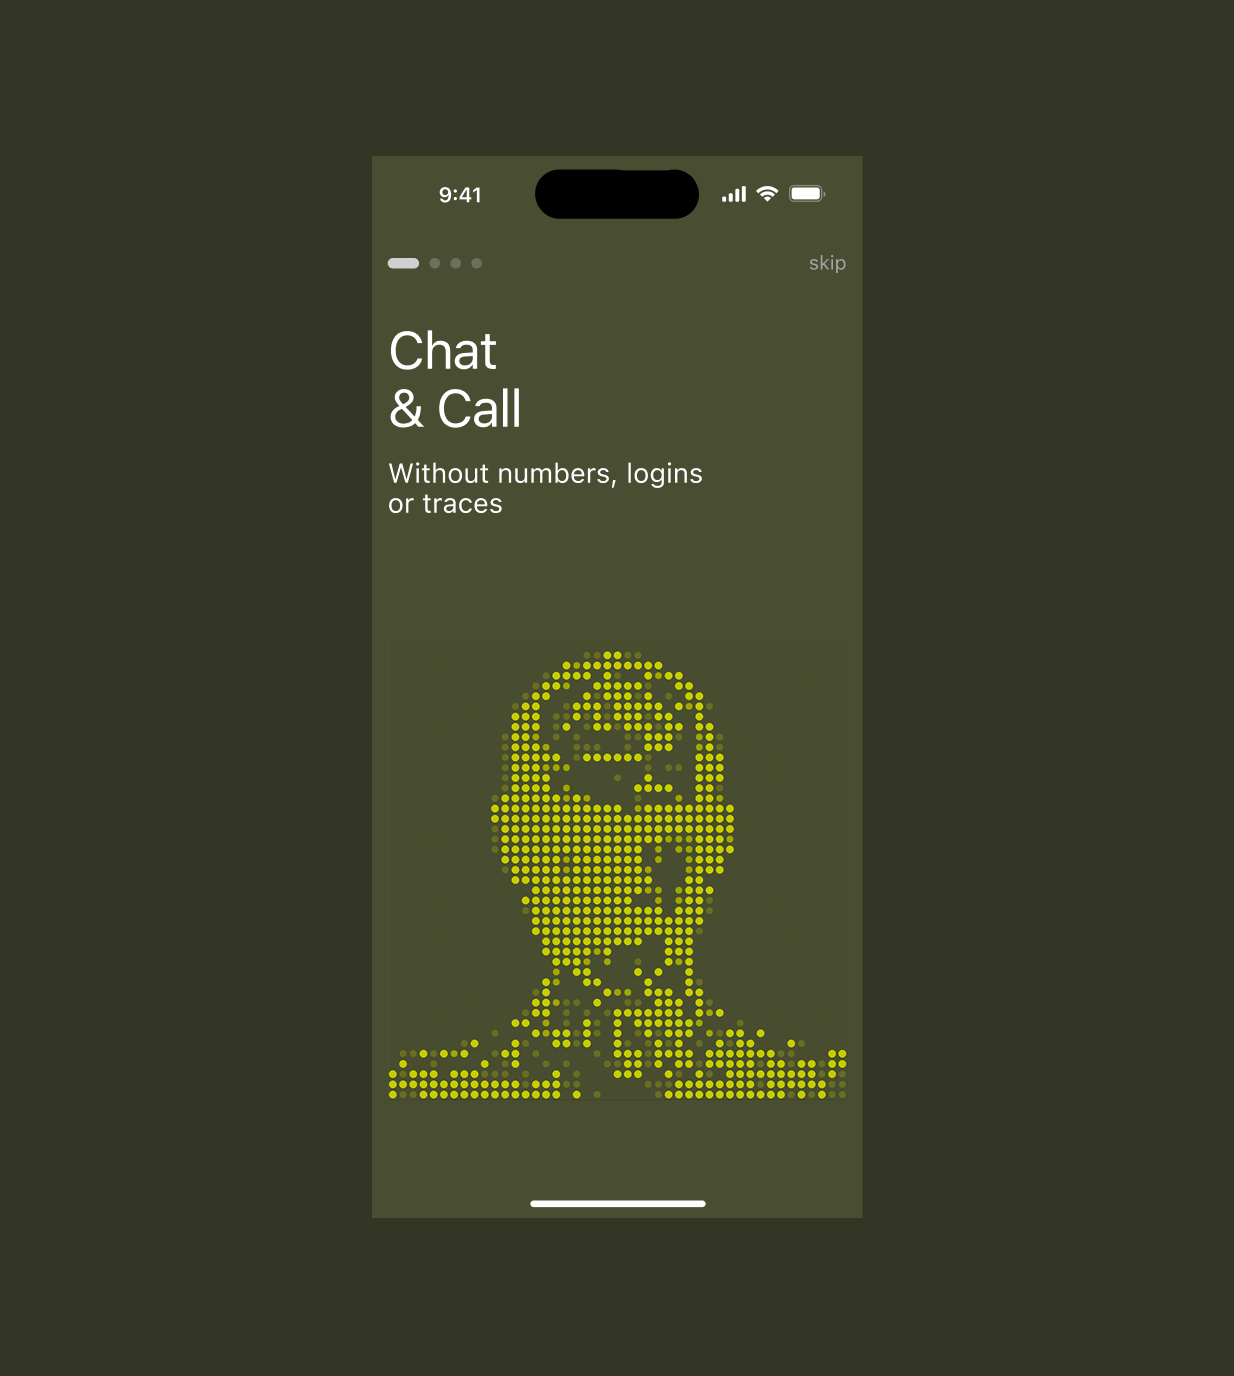
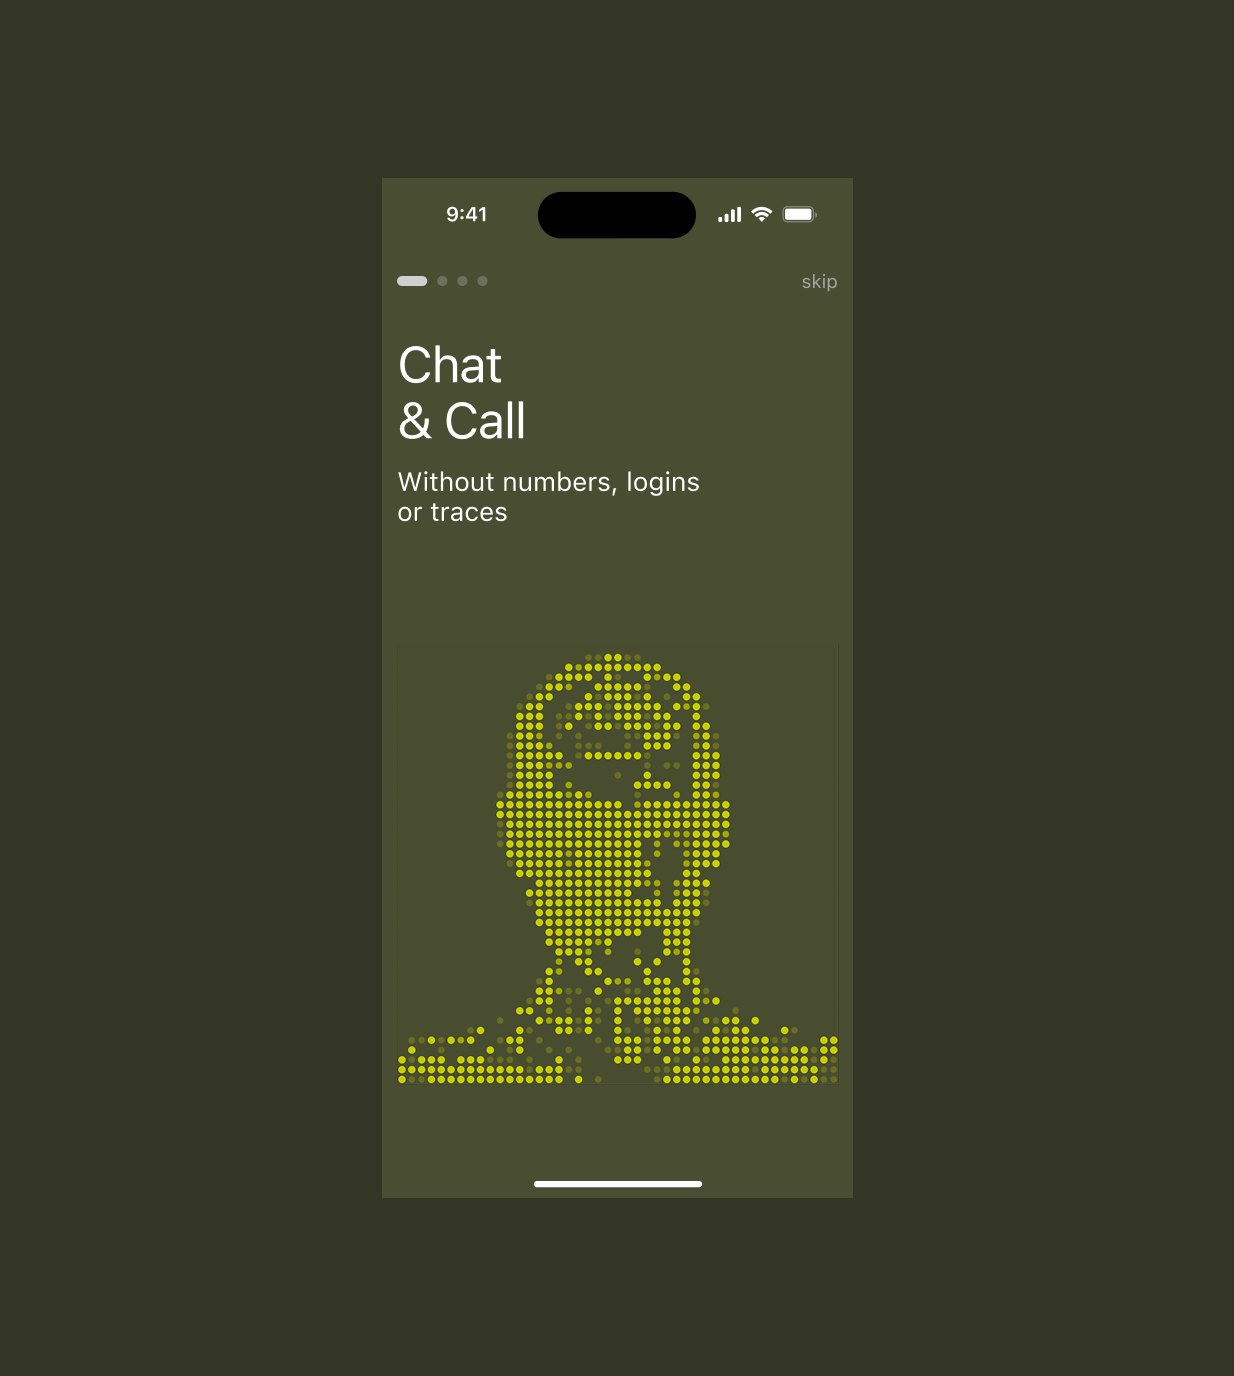
Add files via upload

diff --git a/index.html b/index.html
@@ -8,9 +8,19 @@
       content="Козлов Никита — продуктовый дизайнер. Портфолио и опыт работы."
     />
     <title>Козлов Никита — продуктовый дизайнер</title>
-    <link rel="stylesheet" href="./styles.css?v=12" />
+    <link rel="preload" as="image" href="./assets/nikita-kozlov.jpg" />
+    <link rel="preload" as="image" href="./assets/case-core.png" />
+    <link rel="preload" as="image" href="./assets/case-echo.png" />
+    <script>
+      document.documentElement.classList.add("is-loading");
+    </script>
+    <link rel="stylesheet" href="./styles.css?v=13" />
   </head>
   <body>
+    <div class="site-loader" role="status" aria-live="polite">
+      <span class="site-loader__text">Загрузка</span>
+    </div>
+
     <main class="hero" aria-label="Кратко о Никите Козлове">
       <section class="hero__info">
         <div class="hero__top">
@@ -55,6 +65,9 @@
           alt="Никита Козлов"
           width="1728"
           height="2048"
+          data-critical-image
+          fetchpriority="high"
+          decoding="async"
         />
       </figure>
     </main>
@@ -68,7 +81,7 @@
               alt="Обложка кейса CORE"
               width="1234"
               height="1376"
-              loading="lazy"
+              data-critical-image
               decoding="async"
             />
           </div>
@@ -86,7 +99,7 @@
               alt="Обложка кейса ECHO"
               width="1234"
               height="1376"
-              loading="lazy"
+              data-critical-image
               decoding="async"
             />
           </div>
@@ -118,5 +131,43 @@
         <p>Откройте сайт на компьютере — так макеты сохранят все детали.</p>
       </div>
     </main>
+
+    <script>
+      (() => {
+        const root = document.documentElement;
+        const images = [...document.querySelectorAll("[data-critical-image]")];
+
+        const waitForImage = (image) =>
+          new Promise((resolve) => {
+            const finish = () => {
+              if (image.naturalWidth > 0 && typeof image.decode === "function") {
+                image.decode().catch(() => {}).finally(resolve);
+                return;
+              }
+
+              resolve();
+            };
+
+            if (image.complete) {
+              finish();
+              return;
+            }
+
+            image.addEventListener("load", finish, { once: true });
+            image.addEventListener("error", resolve, { once: true });
+          });
+
+        let revealed = false;
+        const revealSite = () => {
+          if (revealed) return;
+          revealed = true;
+          root.classList.add("is-ready");
+          root.classList.remove("is-loading");
+        };
+
+        Promise.all(images.map(waitForImage)).then(revealSite);
+        window.setTimeout(revealSite, 12000);
+      })();
+    </script>
   </body>
 </html>

diff --git a/styles.css b/styles.css
@@ -64,6 +64,40 @@ body {
   -webkit-font-smoothing: antialiased;
 }
 
+html.is-loading,
+html.is-loading body {
+  overflow: hidden;
+}
+
+.site-loader {
+  position: fixed;
+  inset: 0;
+  z-index: 1000;
+  display: none;
+  place-items: center;
+  background: var(--paper);
+  opacity: 1;
+  visibility: visible;
+  transition: opacity 180ms ease, visibility 180ms ease;
+}
+
+html.is-loading .site-loader,
+html.is-ready .site-loader {
+  display: grid;
+}
+
+html.is-ready .site-loader {
+  pointer-events: none;
+  opacity: 0;
+  visibility: hidden;
+}
+
+.site-loader__text {
+  color: var(--muted);
+  font-size: var(--text-size);
+  line-height: 1.4;
+}
+
 .hero {
   display: grid;
   grid-template-columns: minmax(0, 1fr) minmax(0, 1fr);
@@ -292,5 +326,11 @@ a:focus-visible {
 
   .bio {
     gap: 1.2rem;
+  }
+}
+
+@media (prefers-reduced-motion: reduce) {
+  .site-loader {
+    transition: none;
   }
 }
